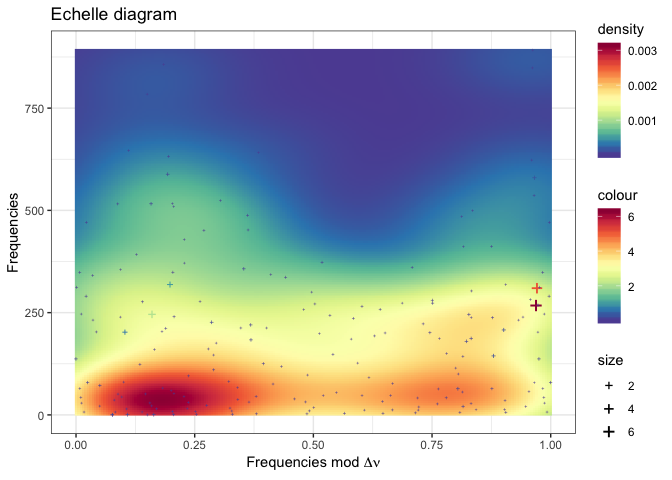
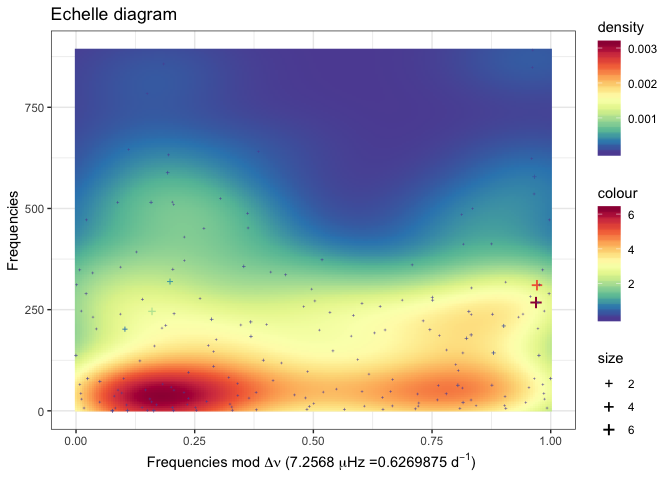
Echlle plot wirh dnu and dnuD added

diff --git a/docs/Experiment_-_HD174936.md b/docs/Experiment_-_HD174936.md
@@ -163,7 +163,7 @@ dt <- data.frame(
   "y" = result$echelle$freMas,
   "h" = result$echelle$amplitudes
 )
-plot_echelle(dt)
+plot_echelle(dt, result$echelle$dnu, result$echelle$dnuD) 
 ```
 
 ![](Experiment_-_HD174936_files/figure-markdown_github/echelle30-1.png)
@@ -177,7 +177,7 @@ dt <- data.frame(
   "h" = result$echelleRanges$`30`$amplitudes
 )
 # Plot echelle
-plot_echelle(dt)
+plot_echelle(dt, result$echelle$dnu, result$echelle$dnuD) 
 ```
 
 ![](Experiment_-_HD174936_files/figure-markdown_github/echelleAll-1.png)

diff --git a/docs/Experiment_-_HD174966.md b/docs/Experiment_-_HD174966.md
@@ -158,7 +158,7 @@ dt <- data.frame(
   "y" = result$echelle$freMas,
   "h" = result$echelle$amplitudes
 )
-plot_echelle(dt)
+plot_echelle(dt, result$echelle$dnu, result$echelle$dnuD) 
 ```
 
 ![](Experiment_-_HD174966_files/figure-markdown_github/echelle30-1.png)
@@ -172,7 +172,7 @@ dt <- data.frame(
   "h" = result$echelleRanges$`30`$amplitudes
 )
 # Plot echelle
-plot_echelle(dt)
+plot_echelle(dt, result$echelle$dnu, result$echelle$dnuD) 
 ```
 
 ![](Experiment_-_HD174966_files/figure-markdown_github/echelleAll-1.png)
